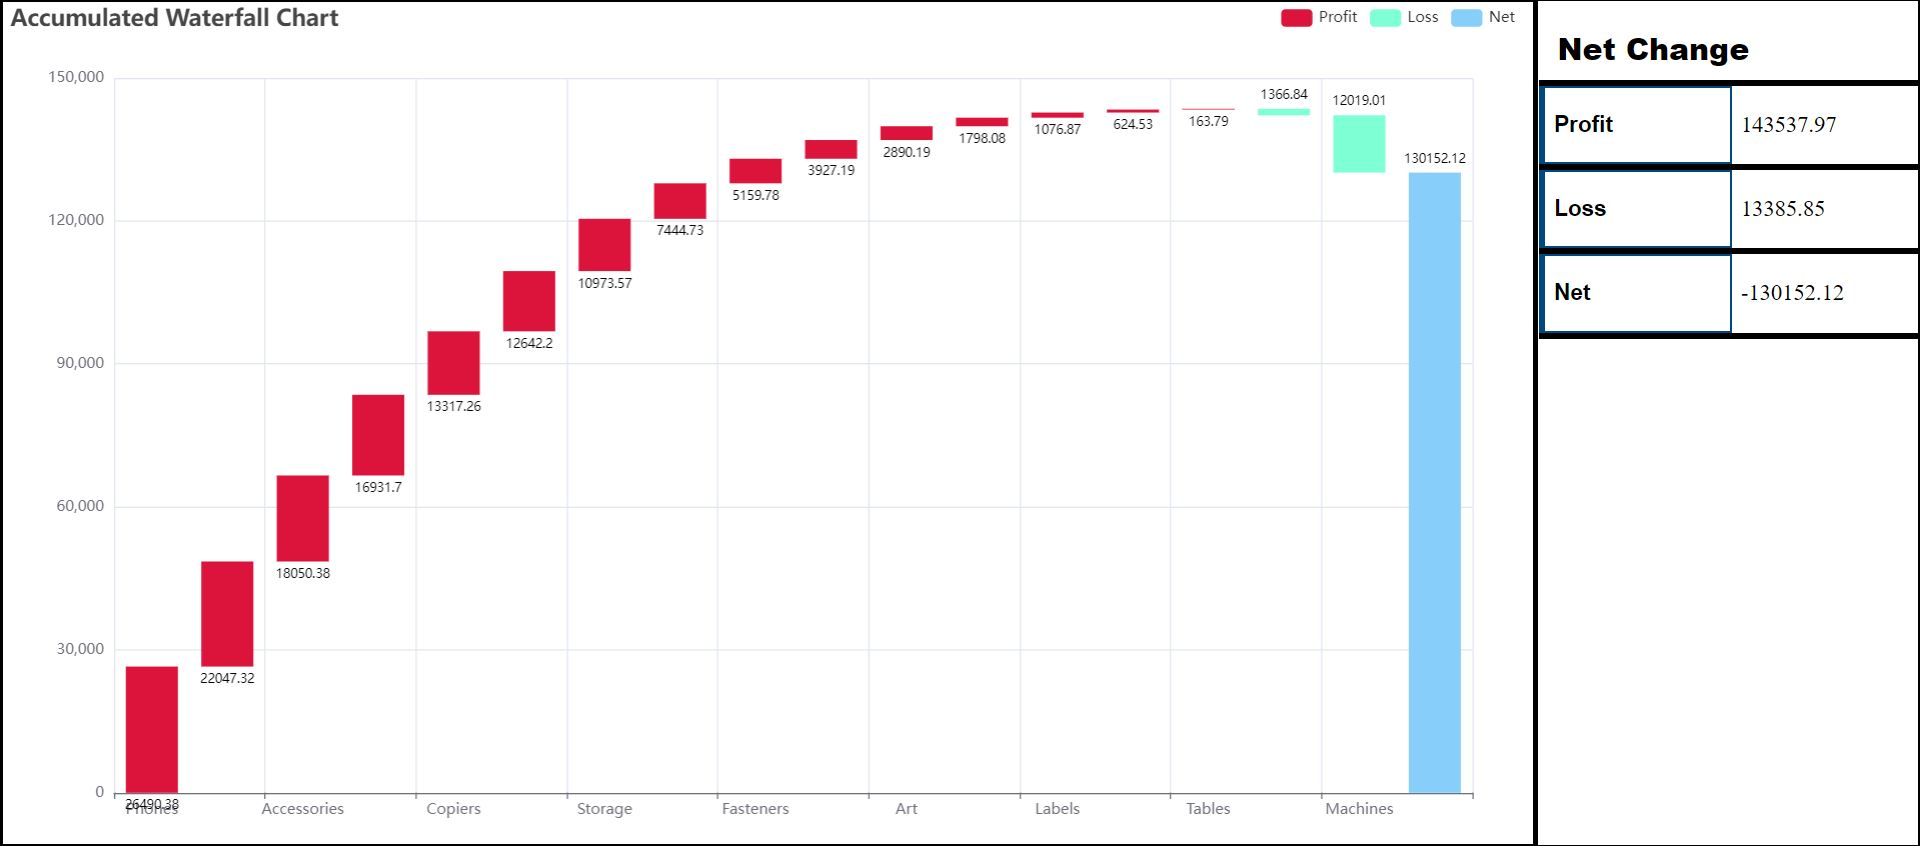
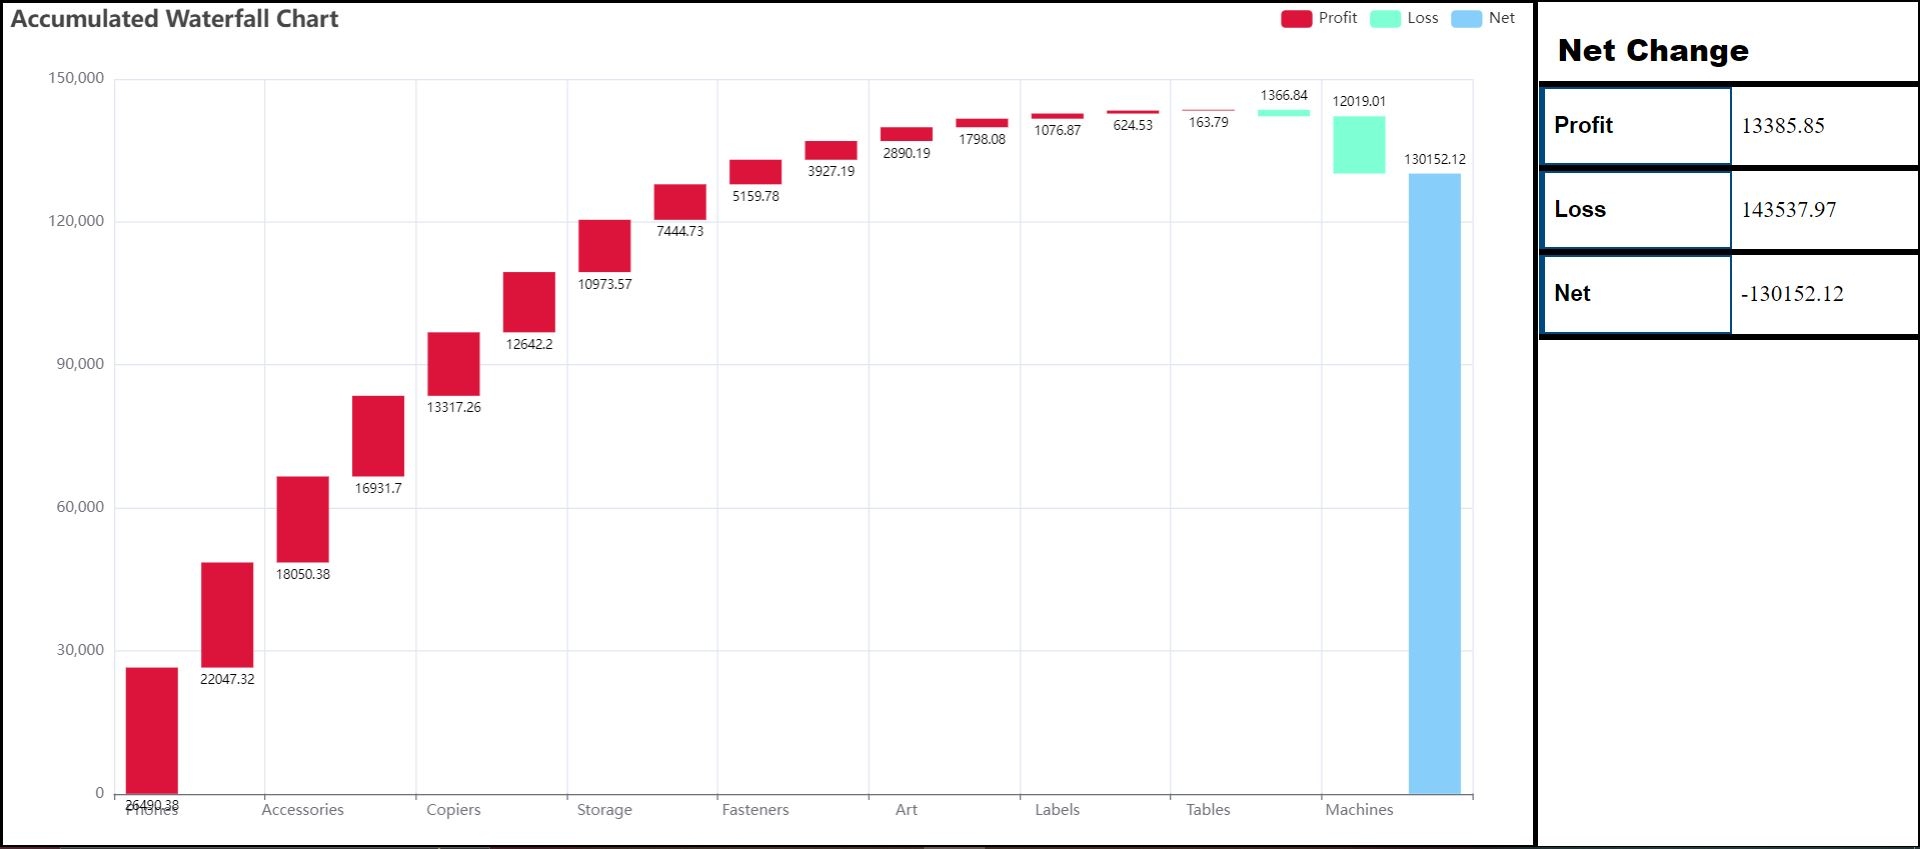
Correcting Summary

diff --git a/script.js b/script.js
@@ -36,7 +36,7 @@ function processData(data){
     data.forEach(element => {
         diff.push({
             category: element.subcategory,
-            diff: Number((element.d__2022sale - element.d__2021sale).toFixed(2))
+            diff: Number((element.d__2021sale - element.d__2022sale).toFixed(2))
         })
     });
     return diff;
@@ -52,7 +52,16 @@ function plotCurve(data){
 
     for(var i = 0;i < data.length; i++){
         total += data[i].diff;
+        if(data[i].diff >= 0){
+            profit += data[i].diff;
+        }
+        else{
+            loss += data[i].diff;
+        }
     }
+
+    profit = Number(profit.toFixed(2));
+    loss = Number(loss.toFixed(2));
     
     // sorting on basis of difference
     data.sort(function(a, b){return a.diff - b.diff});
@@ -108,11 +117,9 @@ function plotCurve(data){
         if (val >= 0) {
           positive.push(val);
           negative.push('-');
-          profit += data[i].diff;
         } else {
           positive.push('-');
           negative.push(-val);
-          loss += data[i].diff;
         }
       
         if (i === 0) {
